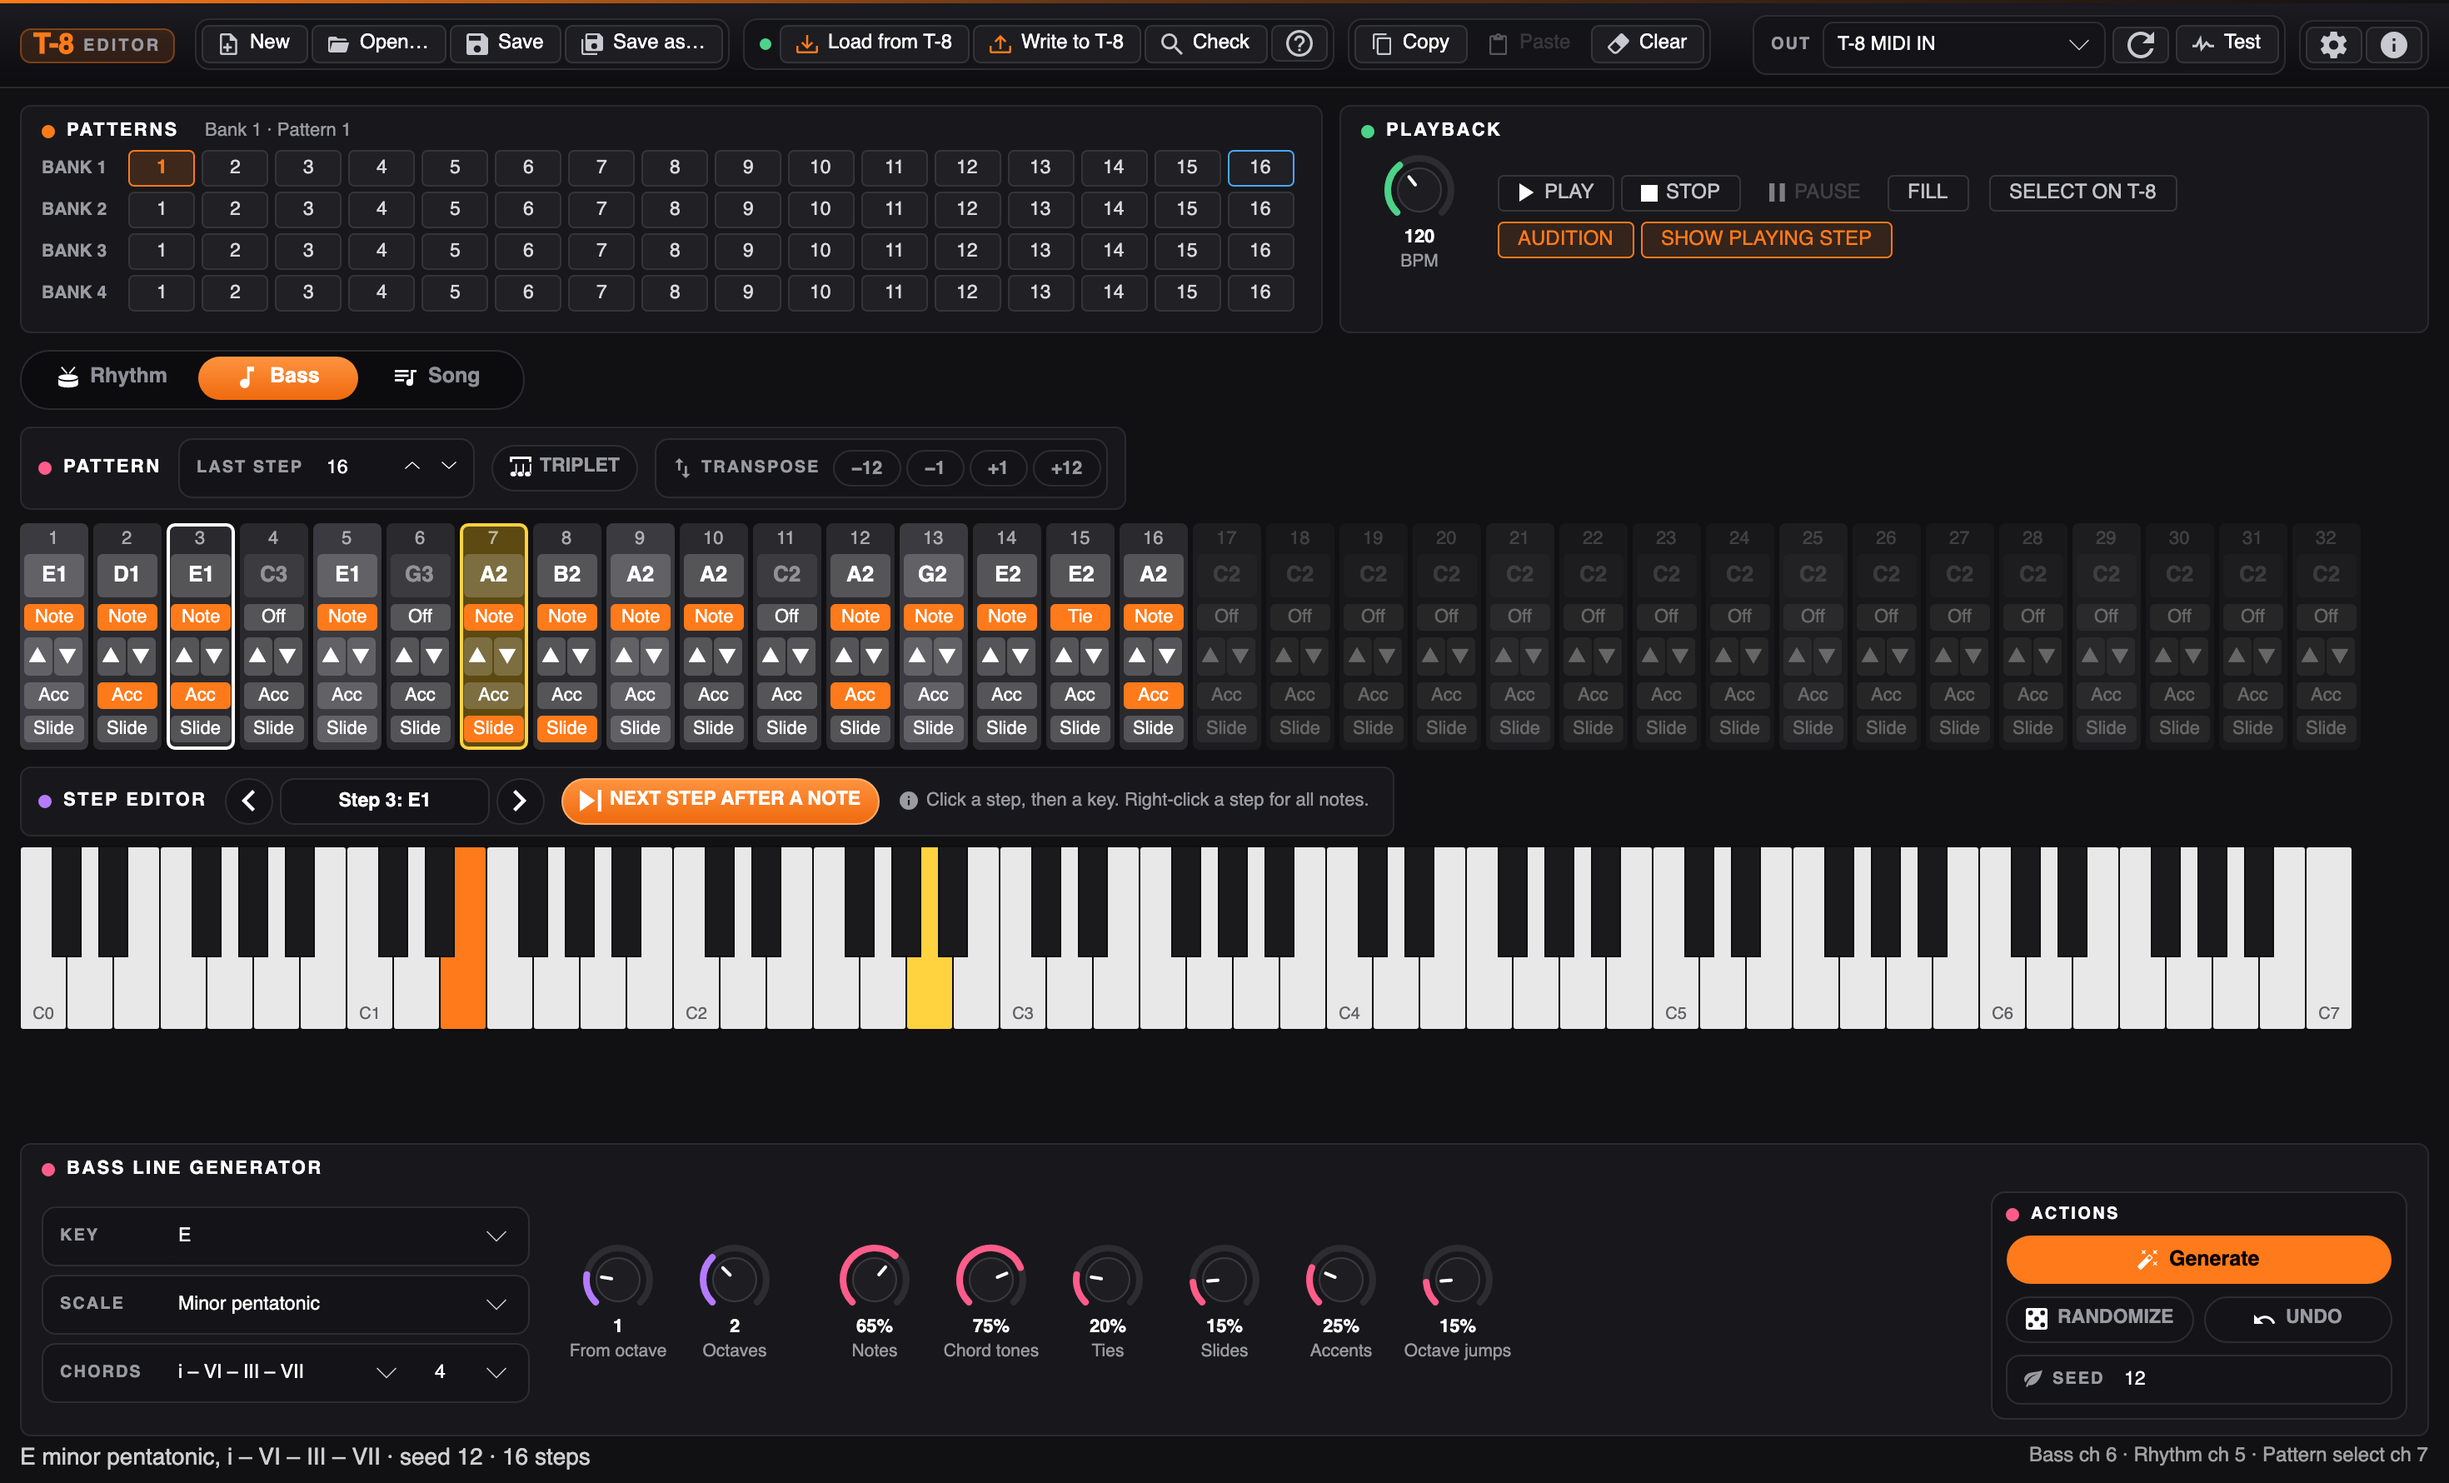
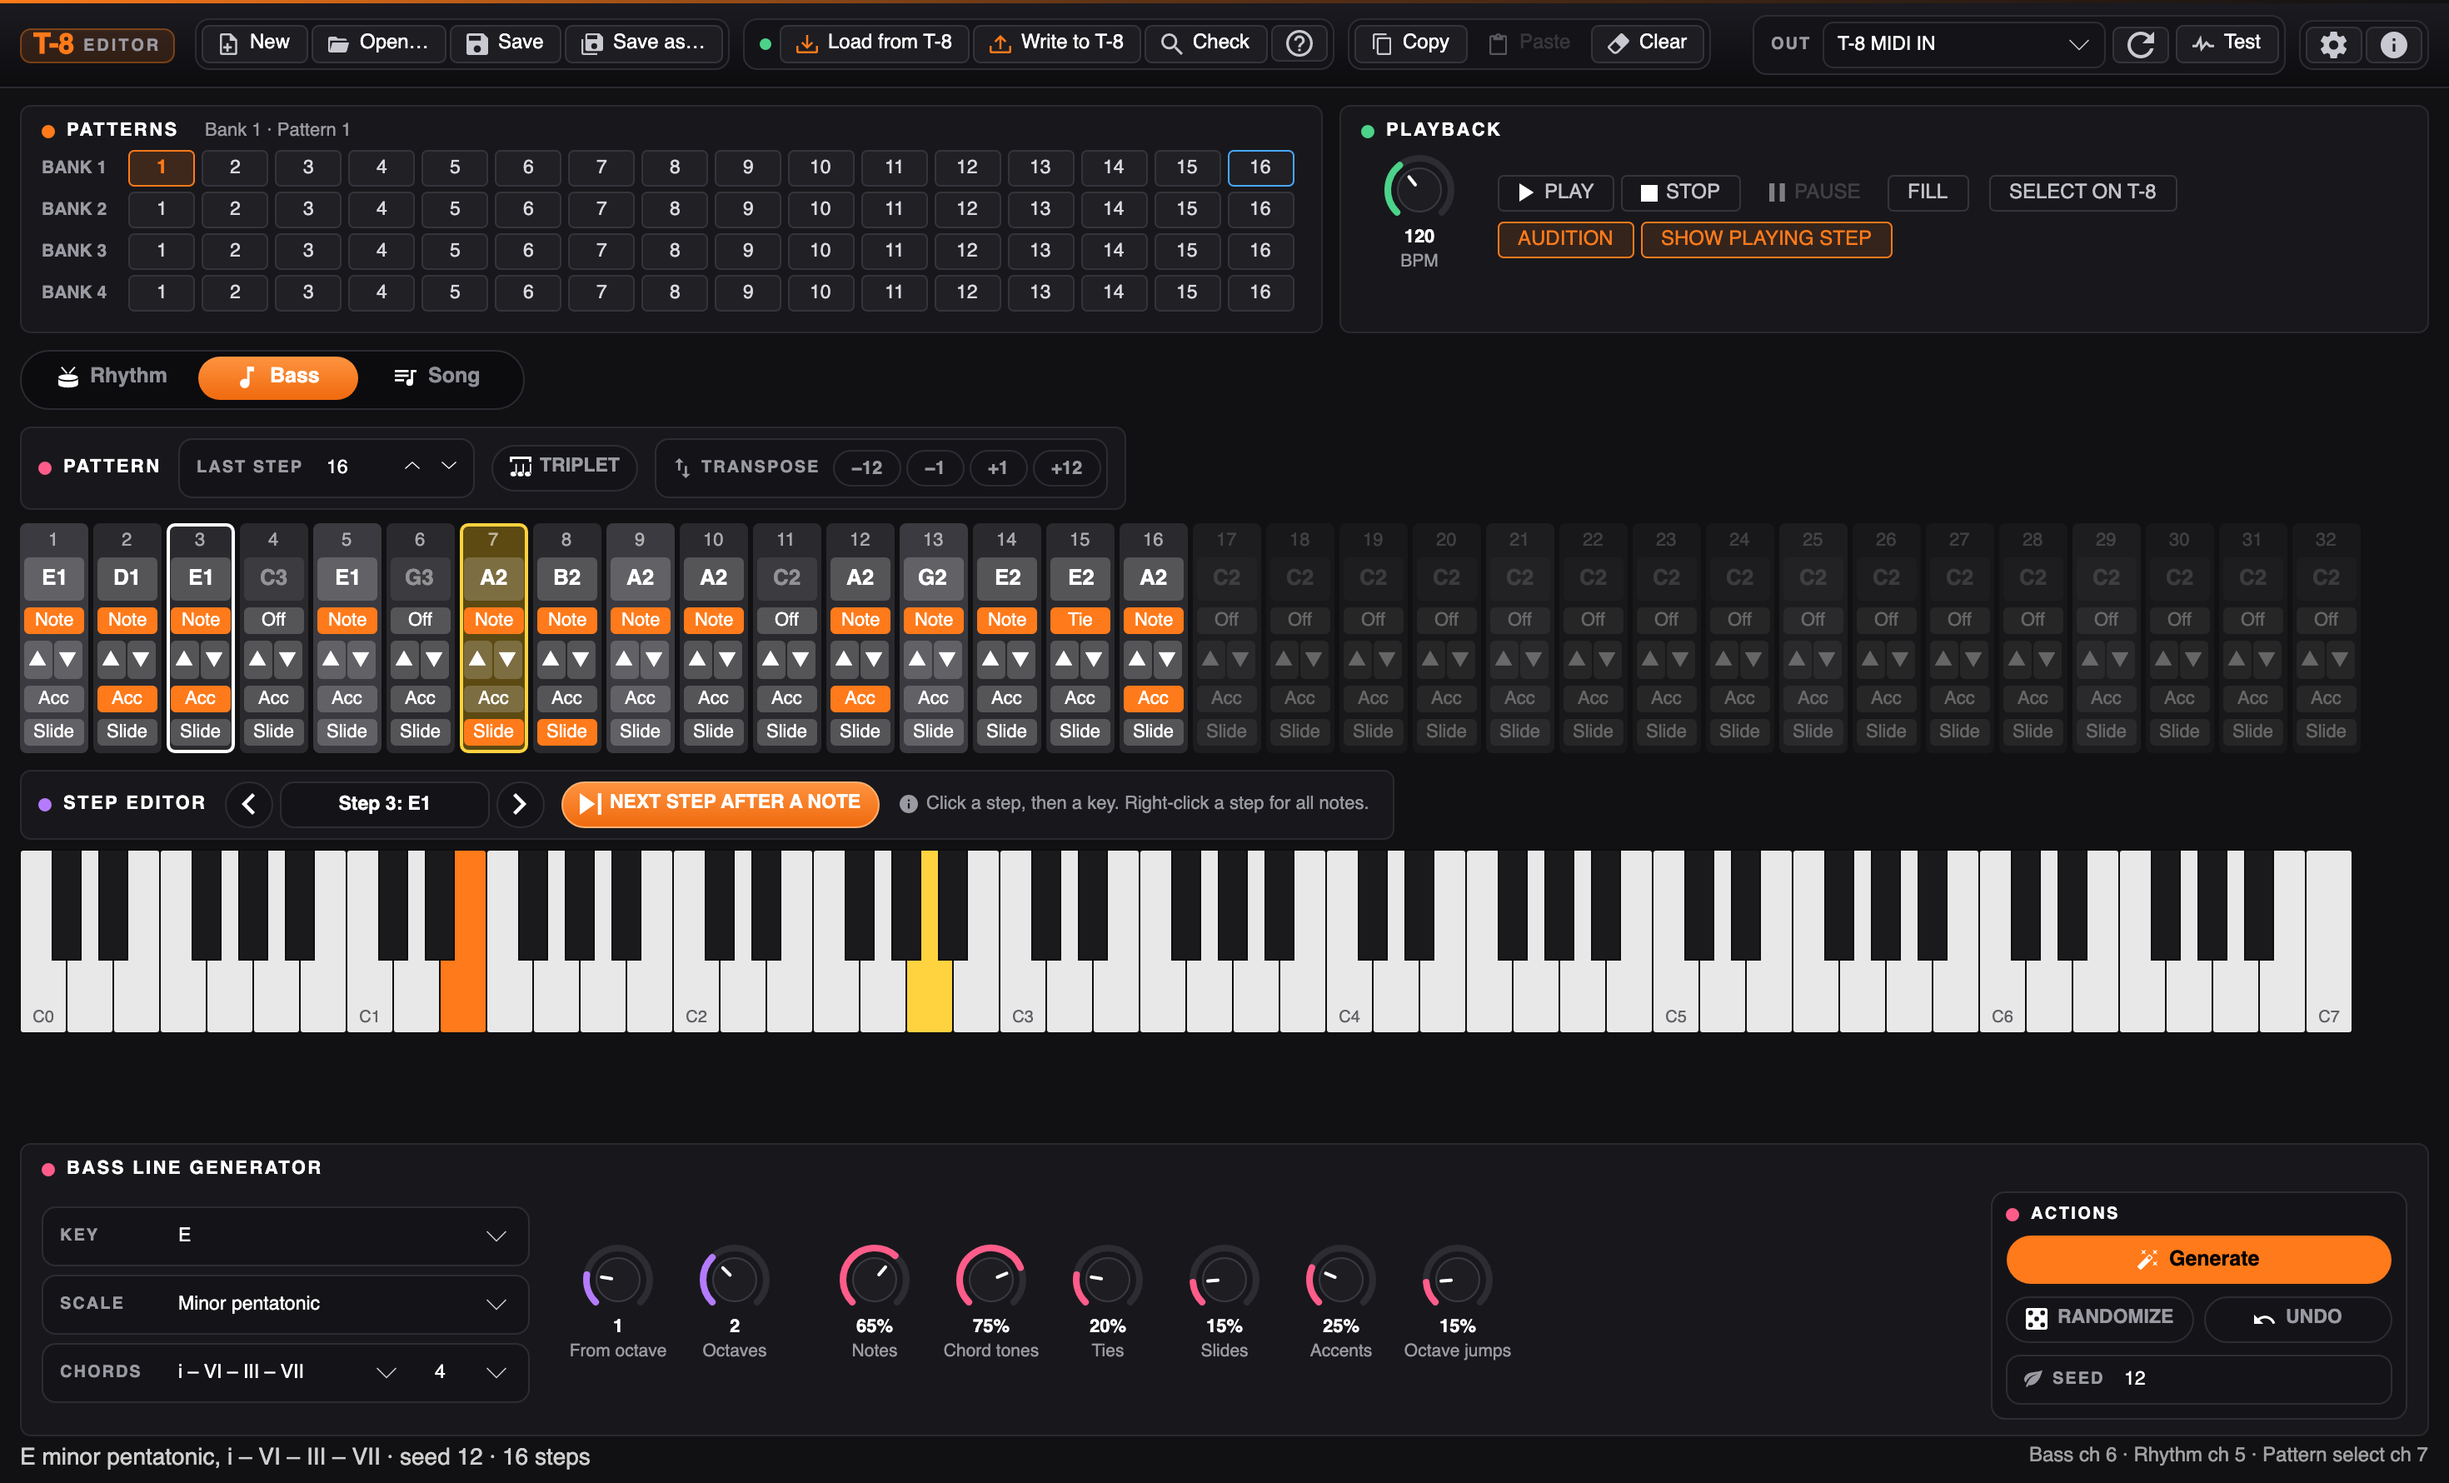
Bass steps: clicking the step number selects the step
The number above each bass step is now a flat button that selects the
step, like clicking its note, and highlights on hover. Test and README
updated.

diff --git a/tests/T8.Editor.Tests/MainWindowTests.cs b/tests/T8.Editor.Tests/MainWindowTests.cs
@@ -297,6 +297,12 @@ public class MainWindowTests
         previous.Command!.Execute(null);
         Assert.Same(vm.Bass.Steps[0], vm.Bass.SelectedStep);
 
+        // Clicking a step's number selects the step too.
+        var numbers = editor.GetVisualDescendants().OfType<Button>().Where(b => b.Classes.Contains("stepNumber")).ToList();
+        Assert.Equal(32, numbers.Count);
+        Click(window, numbers[4]);
+        Assert.Same(vm.Bass.Steps[4], vm.Bass.SelectedStep);
+
         var before = vm.Bass.Steps[0].NoteName;
         up12.Command!.Execute(up12.CommandParameter);
         Assert.NotEqual(before, vm.Bass.Steps[0].NoteName);

diff --git a/README.md b/README.md
@@ -296,7 +296,7 @@ SHIFT + STEP 7 (FILL TRG) plays it once before going back to the main pattern.
 
 Each column is one step: its note, its state, semitone up/down, and Accent and Slide.
 
-- Click a step's note to select it (outlined in white); its note lights up orange on the keyboard.
+- Click a step's note or its number to select it (outlined in white); its note lights up orange on the keyboard.
 - Click a key on the **keyboard** to give the selected step that note. The step is turned on, you hear the note
   on the T-8, and the selection moves to the next step, so you can play a line in key by key. Turn off
   **Next step after a note** (in the **Step editor** panel above the keyboard) to stay on the same step. The
